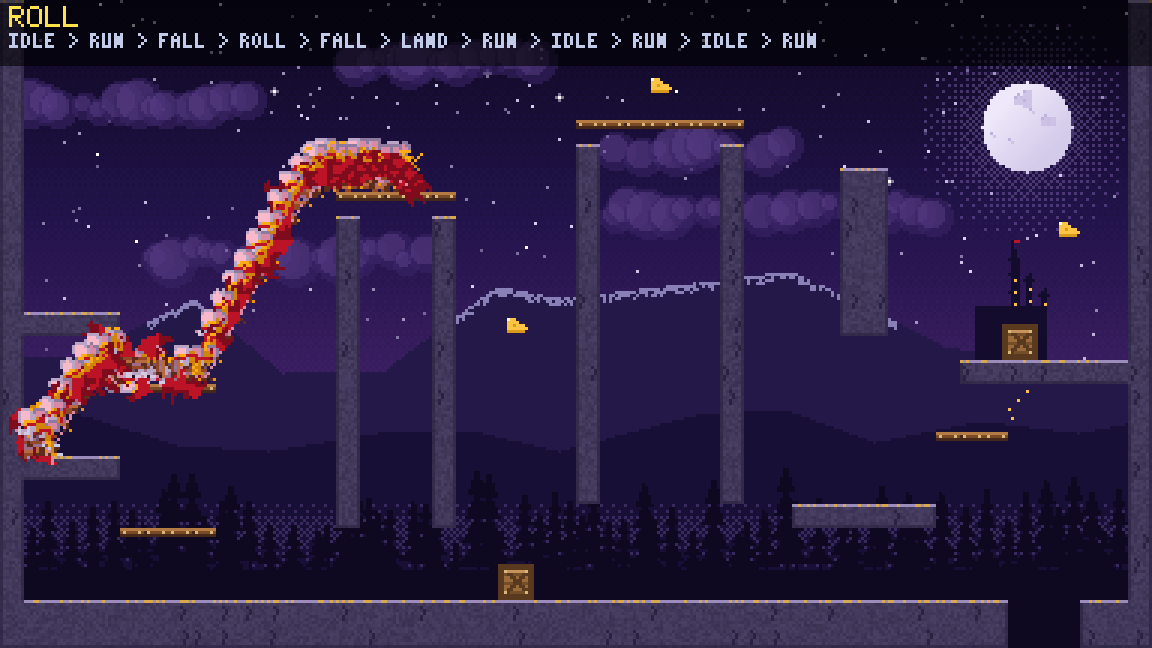
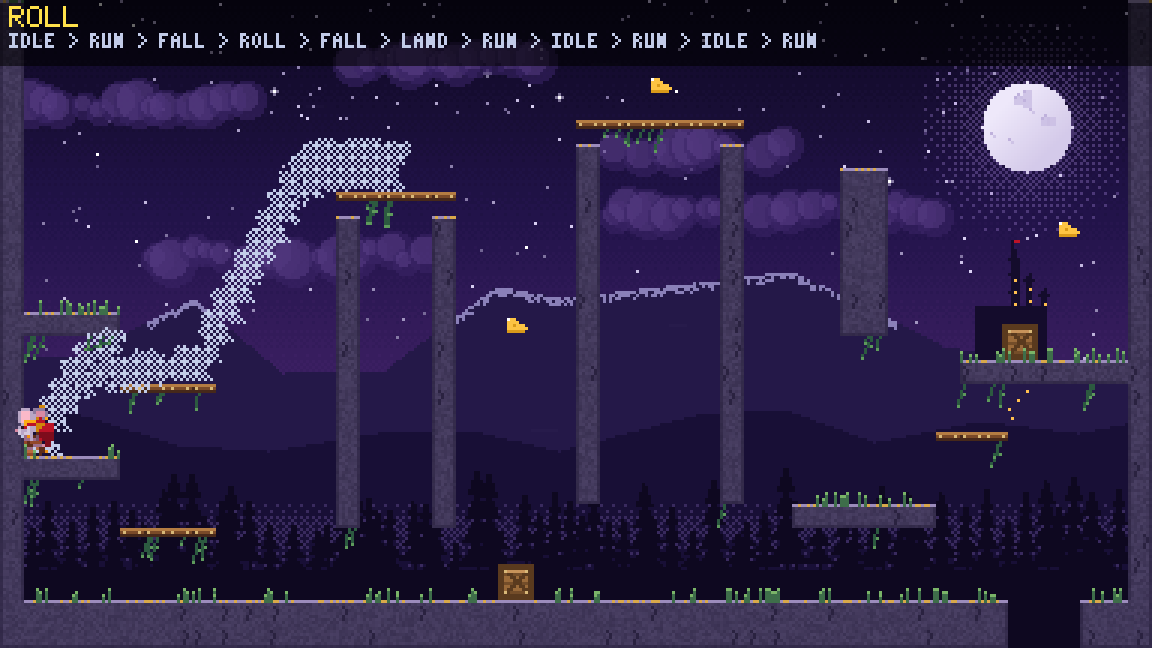
Regenerate the README images, with a readable onion skin
The filmstrips, pose sheet and overlay screenshot now show the current
scene: the moonlit night with moss and grass, cheese wedges, and the
heroine as she looks now.

Drawn with her full cape every few steps, the onion skin had turned
every path into a red smear. The snapshot example now draws the
in-between copies as faded silhouettes without cape and mane, and only
the final frame in full, so the path reads again.

diff --git a/examples/snapshot.rs b/examples/snapshot.rs
@@ -1,7 +1,8 @@
 //! Headless filmstrips of the hero's moves, for checking animation without a window:
 //! `cargo run --example snapshot -- [out_dir] [move...]` (or `task snapshot`) plays each
-//! scripted move on the demo level and writes a PNG at 3x: the level, the hero drawn every
-//! few steps along the way (onion skin), and the states the animator went through.
+//! scripted move on the demo level and writes a PNG at 3x: the level, the hero as a faded
+//! silhouette every few steps along the way (onion skin), the final frame in full, and the
+//! states the animator went through.
 //!
 //! This works because nothing below the app layer touches the toolkit: a [`Session`] runs
 //! headless and draws into any raster.
@@ -365,15 +366,14 @@ fn main() {
                 let (x, y) = s.world.player.exact_pos();
                 let p = &s.world.player;
                 let sprite = s.animator.sprite();
-                mouse::draw(
-                    &mut canvas,
-                    x,
-                    y,
-                    sprite,
-                    p.facing,
-                    Some((&s.rig, (0.0, 0.0))),
-                    &Paint::default(),
-                );
+                // Faded silhouettes without cape and mane, so the path reads; the last
+                // frame is drawn in full on top.
+                let ghost = Paint {
+                    tint: Some(pal::PALE),
+                    alpha: 0.55,
+                    ..Paint::default()
+                };
+                mouse::draw(&mut canvas, x, y, sprite, p.facing, None, &ghost);
             }
         }
         // The final frame on top: blocks, crystals, effects, the hero where it ended.
